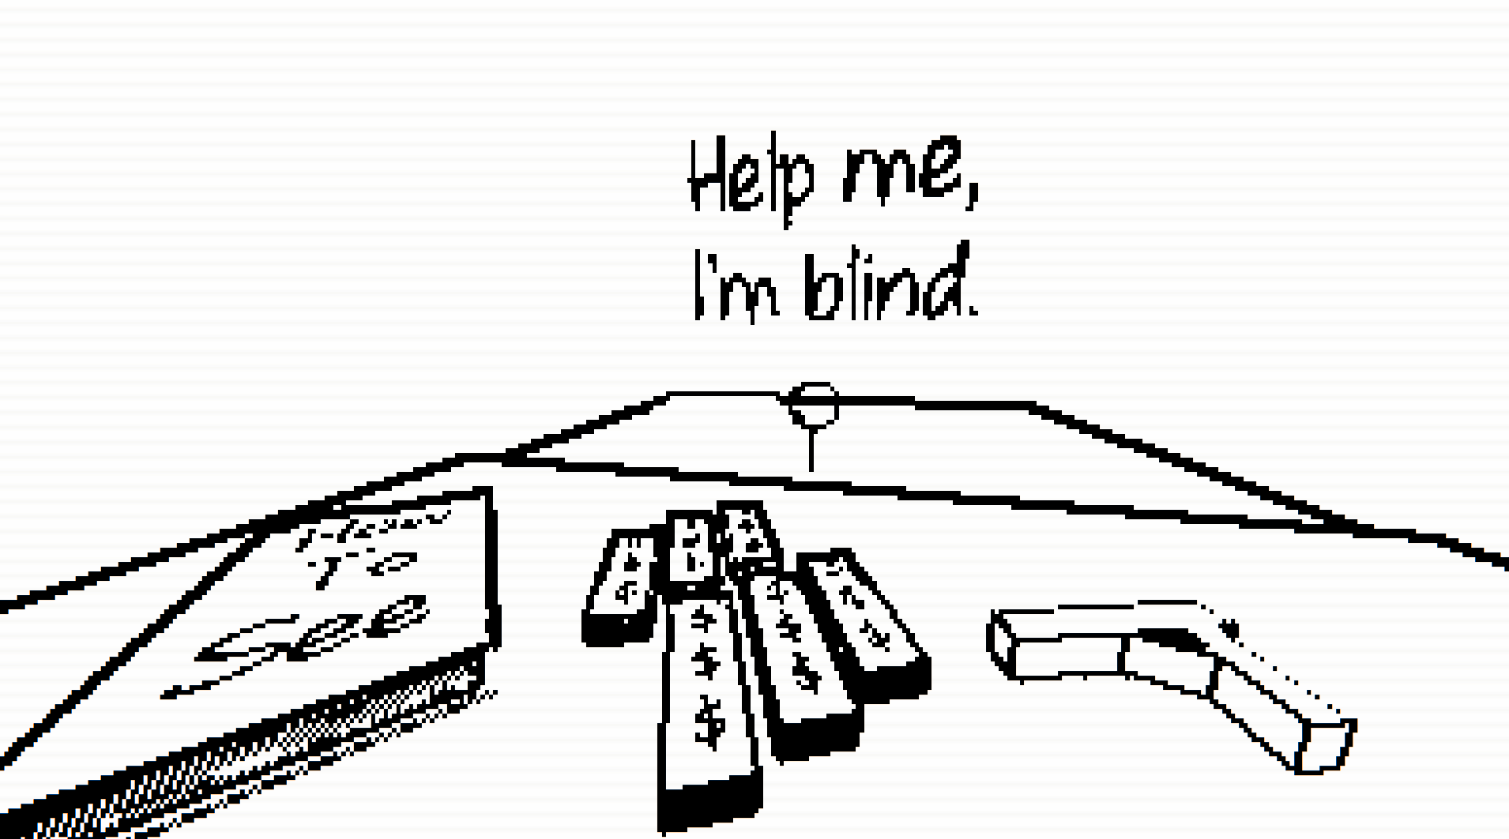
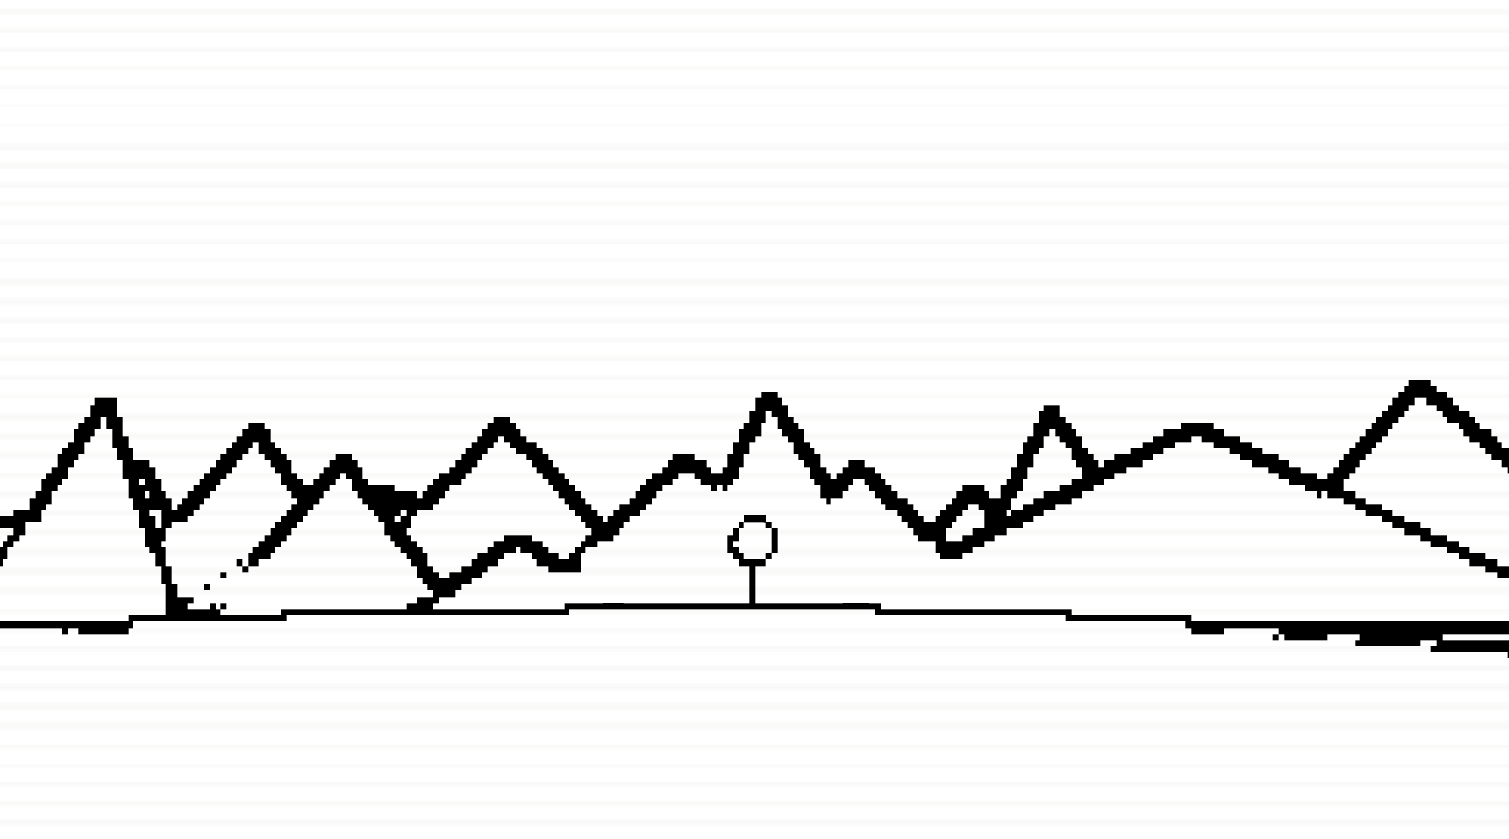
Updated projects

diff --git a/index.html b/index.html
@@ -588,7 +588,7 @@
                 </figure>
                 <h3 class="project-title">LIMITATIONS</h3>
                 <p class="project-category">
-                  A full-scale in-development walking simulator about the limitations present in everyone's lives. A demo will be released soon! (2022-Present)<br>
+                  A full-scale in-development walking simulator about the limitations present in everyone's lives. It's going to take a while! (2022-Present)<br>
                   <b>Video-games</b>
                 </p>
               </a>
